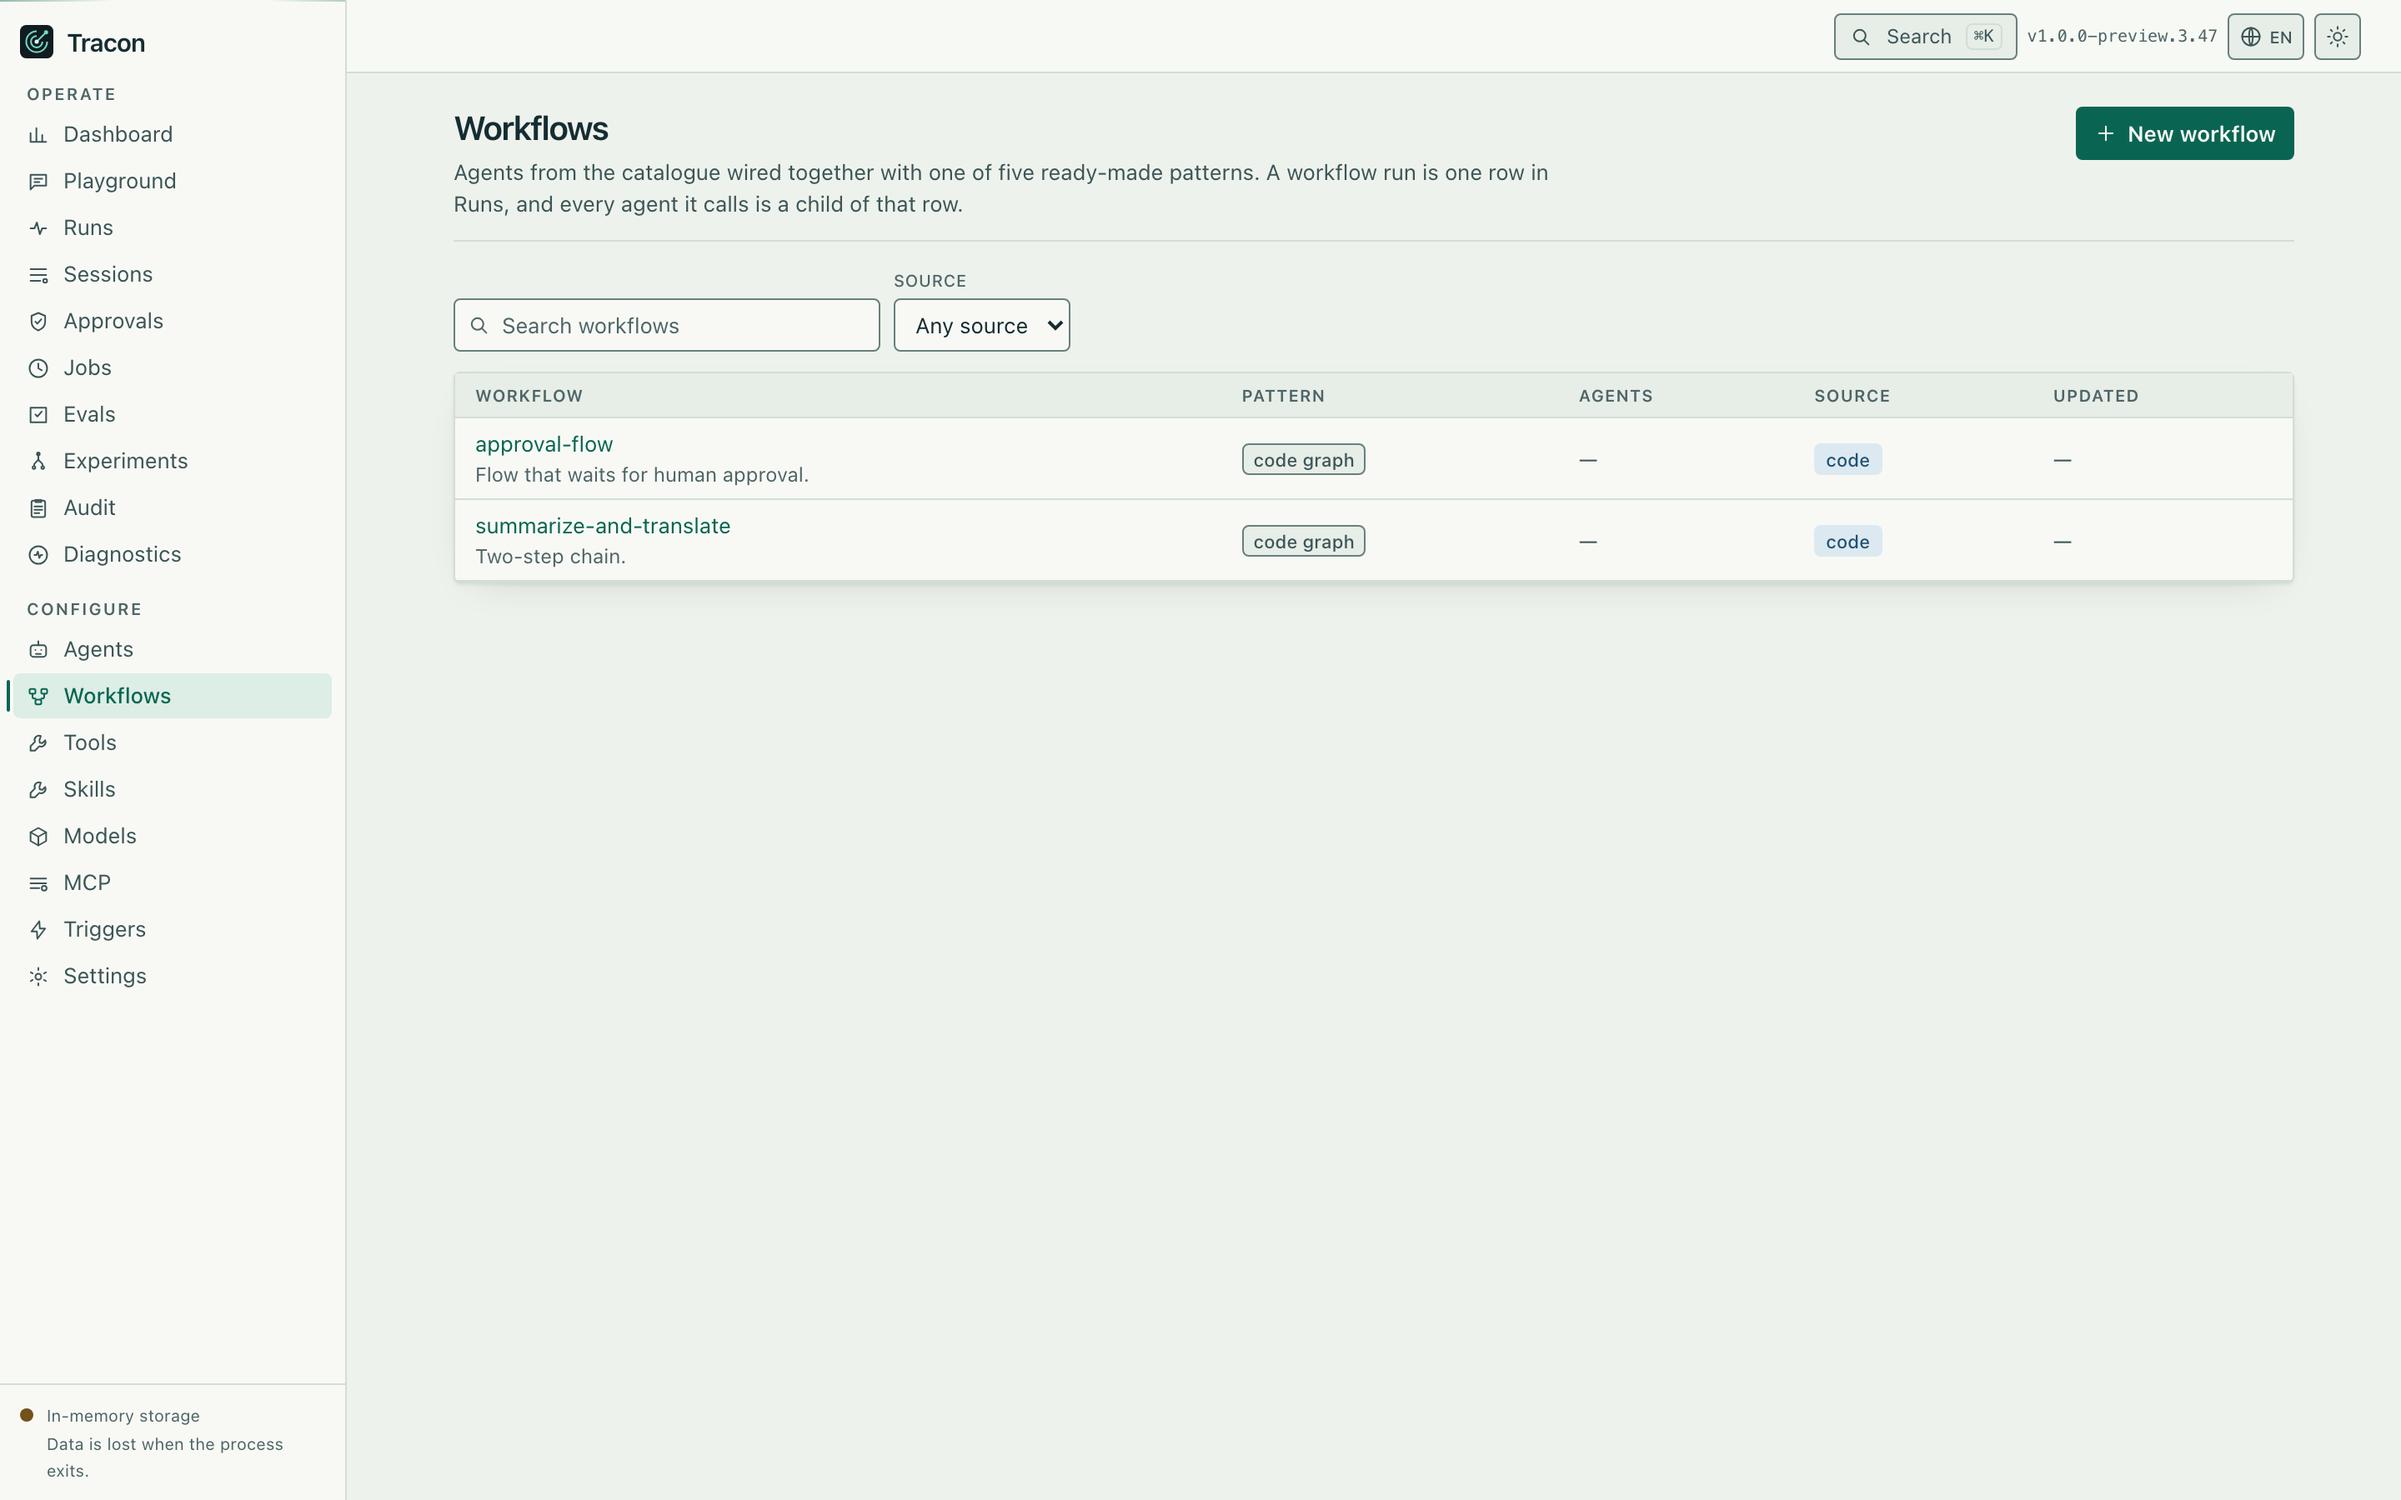
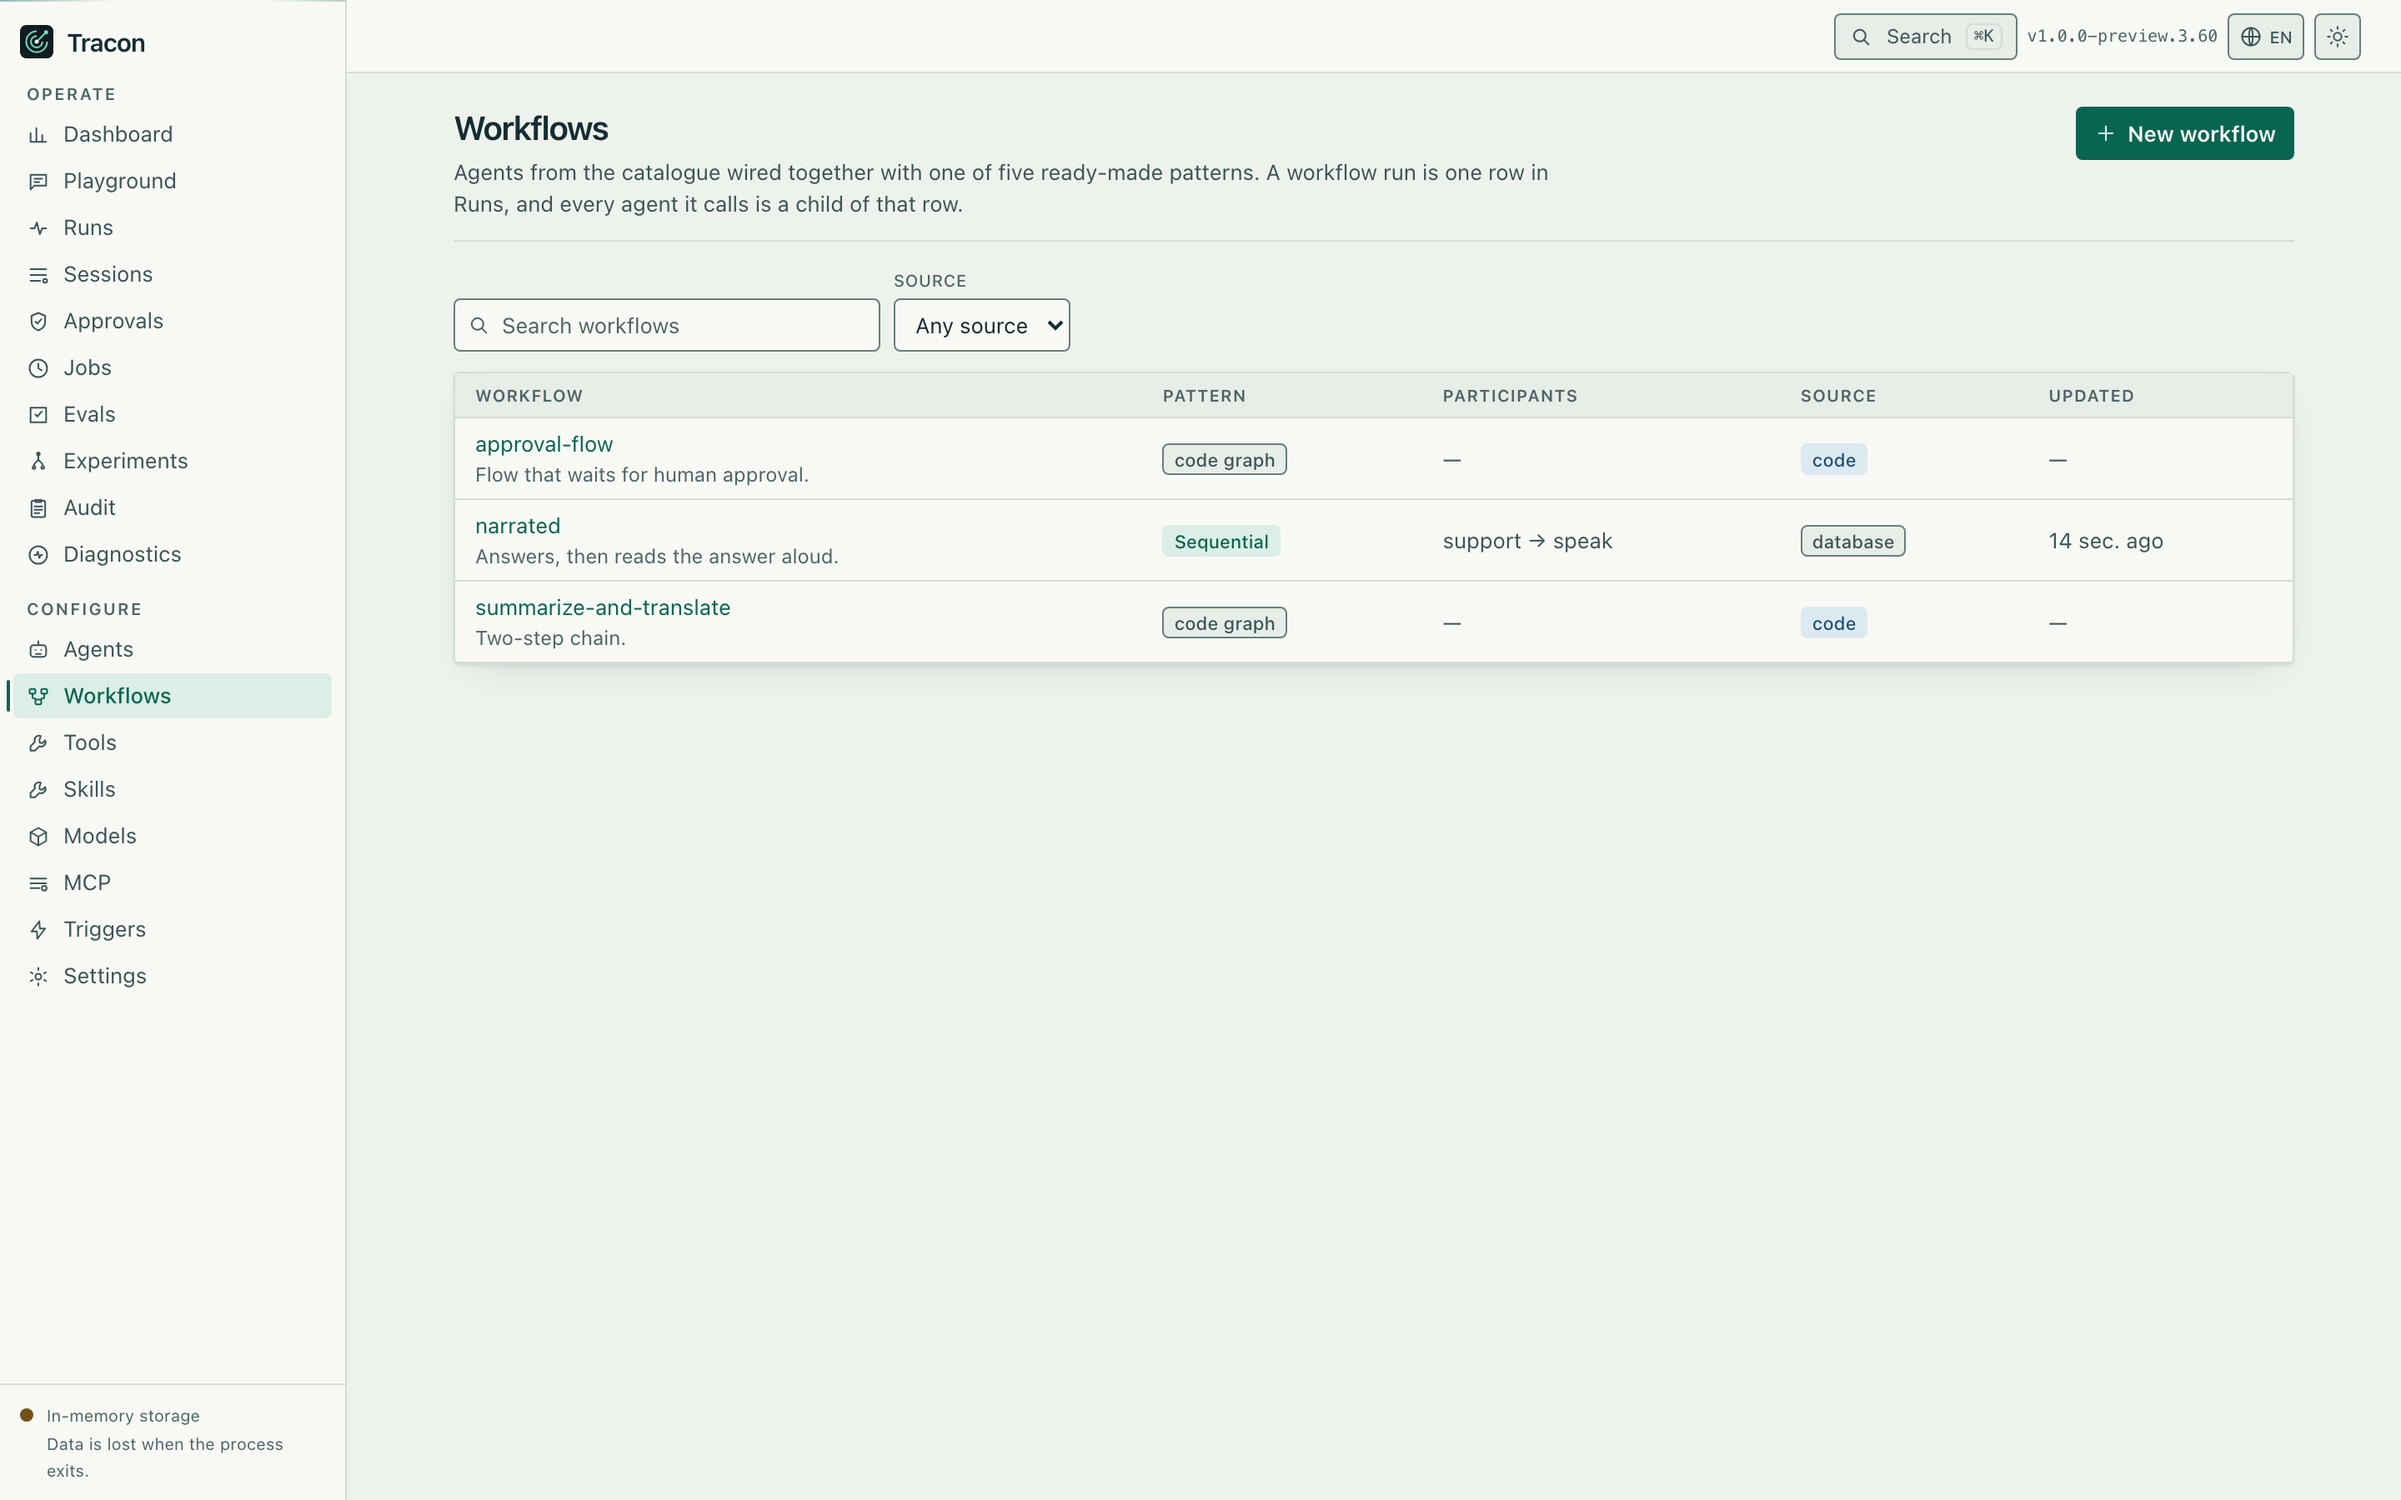
fix(console): keep a node's stored settings when a failed save is retried, and list node steps

diff --git a/src/Tracon.UI/frontend/src/screens/workflows.test.tsx b/src/Tracon.UI/frontend/src/screens/workflows.test.tsx
@@ -1,0 +1,70 @@
+import { afterEach, describe, expect, it } from 'vitest';
+import { fixture, installApiMock, testMeta } from '../test/api-fixtures';
+import { renderScreen, screen, within } from '../test/render';
+import { WorkflowsScreen } from './workflows';
+
+const stamp = '2026-10-12T09:00:00Z';
+
+/** What the server answers for a stored workflow; the case supplies the name and the steps. */
+function stored(name: string, steps: Record<string, unknown>): Record<string, unknown> {
+  return {
+    name,
+    displayName: null,
+    description: null,
+    origin: 'Database',
+    kind: 'Sequential',
+    agentNames: [],
+    nodes: [],
+    parameters: [],
+    version: 1,
+    updatedAt: stamp,
+    ...steps,
+  };
+}
+
+let restoreFetch: () => void = () => undefined;
+
+afterEach(() => {
+  restoreFetch();
+});
+
+/** The row of the workflow with this name. */
+async function rowOf(name: string): Promise<HTMLElement> {
+  return (await screen.findByRole('link', { name })).closest('tr') as HTMLElement;
+}
+
+describe('WorkflowsScreen - the participants column', () => {
+  // The console writes a chain that holds a function as `nodes` and leaves `agentNames` empty, so a
+  // column that read only `agentNames` showed the chain the operator had just built as empty.
+  it('lists the steps of a chain saved as nodes, of one saved as agent names, and nothing for a code graph', async () => {
+    restoreFetch = installApiMock([
+      fixture('GET', 'api/workflows', [
+        stored('narrated', {
+          nodes: [
+            { name: 'support', kind: 'Agent', settings: null },
+            { name: 'speak', kind: 'Function', settings: { voice: 'alloy' } },
+          ],
+        }),
+        stored('review', { agentNames: ['drafter', 'reviewer'] }),
+        stored('approval-flow', { origin: 'Code', kind: null }),
+      ]),
+    ]);
+
+    renderScreen(<WorkflowsScreen meta={testMeta} />);
+
+    expect(within(await rowOf('narrated')).getByText('support → speak')).toBeTruthy();
+    expect(within(await rowOf('review')).getByText('drafter → reviewer')).toBeTruthy();
+    expect(within(await rowOf('approval-flow')).getByText('—', { selector: 'td' })).toBeTruthy();
+  });
+
+  it('names the column for what it holds: the steps, which are not always agents', async () => {
+    restoreFetch = installApiMock([fixture('GET', 'api/workflows', [stored('review', { agentNames: ['drafter'] })])]);
+
+    renderScreen(<WorkflowsScreen meta={testMeta} />);
+
+    await rowOf('review');
+
+    expect(screen.getByRole('columnheader', { name: 'Participants' })).toBeTruthy();
+    expect(screen.queryByRole('columnheader', { name: 'Agents' })).toBeNull();
+  });
+});

diff --git a/src/Tracon.UI/frontend/src/screens/workflow-editor.test.tsx b/src/Tracon.UI/frontend/src/screens/workflow-editor.test.tsx
@@ -320,6 +320,56 @@ describe('WorkflowEditorScreen - the settings field', () => {
     expect(screen.queryByText('This is not valid JSON.')).toBeNull();
   });
 
+  // Retry is Save again. After a failed save it used to send the draft whatever the settings text
+  // held, and text that is not JSON became `null` - which a full-replace save takes for "no
+  // settings", so the stored ones were erased.
+  it('holds Retry back, like Save, while the settings text is not JSON, and sends nothing then', async () => {
+    const user = userEvent.setup();
+    let answers = 0;
+
+    open(mixed, [
+      {
+        method: 'PUT',
+        pattern: 'api/workflows/:name',
+        handler: (_params, _url, body) => {
+          sent.push(body);
+          answers += 1;
+
+          return answers === 1
+            ? new Response(
+                JSON.stringify({ title: 'Workflow definition invalid', detail: "Function node 'word-count' has invalid settings." }),
+                { status: 400, headers: { 'Content-Type': 'application/problem+json' } },
+              )
+            : stored({});
+        },
+      },
+    ]);
+
+    const field = await screen.findByTestId('workflow-settings-word-count');
+
+    fireEvent.change(field, { target: { value: '{"langauge":"en"}' } });
+    await user.click(await screen.findByTestId('workflow-save'));
+
+    // The server refused it: its message shows, with Retry.
+    await screen.findByText(/Function node 'word-count' has invalid settings\./);
+    await screen.findByTestId('error-retry');
+    expect(sent).toHaveLength(1);
+
+    // The text stops being JSON: Save is held back, and so is Retry.
+    fireEvent.change(field, { target: { value: '{ "language": ' } });
+
+    expect(screen.getByTestId('workflow-save')).toHaveProperty('disabled', true);
+    expect(screen.queryByTestId('error-retry')).toBeNull();
+    expect(sent).toHaveLength(1);
+
+    // JSON again: Retry is back, and what it sends is the settings as typed - never null.
+    fireEvent.change(field, { target: { value: '{"language":"en"}' } });
+    await user.click(await screen.findByTestId('error-retry'));
+    await waitFor(() => expect(sent).toHaveLength(2));
+
+    expect(sent[1]).toMatchObject({ nodes: [expect.anything(), { name: 'word-count', settings: { language: 'en' } }] });
+  });
+
   it('leaves the verdict on valid JSON to the server: an object the type cannot hold is sent as typed', async () => {
     const user = userEvent.setup();
 

diff --git a/src/Tracon.UI/frontend/src/screens/workflows.tsx b/src/Tracon.UI/frontend/src/screens/workflows.tsx
@@ -18,6 +18,7 @@ import {
   Th,
 } from '../components/ui';
 import { Link } from '../lib/router';
+import { stepsOf } from '../lib/workflow-steps';
 import { Toolbar, ToolbarField } from '../components/toolbar';
 import { PlusIcon } from '../components/icons';
 import type { TraconMetaResponse as Meta } from '@tracon/client';
@@ -119,7 +120,7 @@ export function WorkflowsScreen({ meta }: { meta: Meta }): ReactNode {
               <tr>
                 <Th>{t('workflows.column.workflow')}</Th>
                 <Th>{t('workflows.column.pattern')}</Th>
-                <Th>{t('nav.agents')}</Th>
+                <Th>{t('workflows.column.participants')}</Th>
                 <Th>{t('common.source')}</Th>
                 <Th>{t('common.updated')}</Th>
               </tr>
@@ -146,9 +147,7 @@ export function WorkflowsScreen({ meta }: { meta: Meta }): ReactNode {
                       </Badge>
                     )}
                   </Td>
-                  <Td className="text-muted">
-                    {workflow.agentNames.length === 0 ? '—' : workflow.agentNames.join(' → ')}
-                  </Td>
+                  <Td className="text-muted">{participantsOf(workflow)}</Td>
                   <Td>
                     {/* A code-defined workflow cannot be edited here: it ships with the
                         deployment and wins over any stored definition of the same name. */}
@@ -178,6 +177,17 @@ export function WorkflowsScreen({ meta }: { meta: Meta }): ReactNode {
       )}
     </>
   );
+}
+
+/**
+ * The steps of a stored workflow in the order they are listed, from whichever form it was
+ * saved in: the console writes a chain that holds a function as `nodes`, and a definition
+ * saved over HTTP can use either.
+ */
+function participantsOf(workflow: WorkflowDescriptor): string {
+  const names = stepsOf(workflow).map((step) => step.name);
+
+  return names.length === 0 ? '—' : names.join(' → ');
 }
 
 /**

diff --git a/src/Tracon.UI/frontend/src/lib/workflow-steps.ts b/src/Tracon.UI/frontend/src/lib/workflow-steps.ts
@@ -83,11 +83,22 @@ export function chainBody(
   };
 }
 
-/** The settings as the request carries them: parsed JSON, or `null` for none. */
+/**
+ * The settings as the request carries them: parsed JSON, or `null` for none.
+ *
+ * 🚨 Text that is not JSON is neither: a full-replace save (K-725) would take `null` for "no
+ * settings" and erase what the node stores. The screen holds Save and Retry back while
+ * `hasInvalidSettings` is true; this is the last line, so no future caller can turn a typing
+ * slip into a silent deletion.
+ */
 function settingsValue(text: string): unknown {
   const parsed = parseSettings(text);
 
-  return parsed.ok ? parsed.value : null;
+  if (!parsed.ok) {
+    throw new Error('A function step holds settings that are not valid JSON, so no request was built.');
+  }
+
+  return parsed.value;
 }
 
 export type SettingsParse = { ok: true; value: unknown } | { ok: false };

diff --git a/src/Tracon.UI/frontend/src/lib/workflow-steps.test.ts b/src/Tracon.UI/frontend/src/lib/workflow-steps.test.ts
@@ -79,6 +79,10 @@ describe('chainBody', () => {
     expect(chainBody('Magentic', [agent('a'), agent('b')])).toEqual({ agentNames: ['a', 'b'], nodes: [] });
   });
 
+  it('builds no request from settings text that is not JSON: null would stand for "no settings" and erase them', () => {
+    expect(() => chainBody('Sequential', [agent('a'), fn('tts', '{ nope')])).toThrow('not valid JSON');
+  });
+
   it('keeps every JSON kind a settings object can hold', () => {
     const text = '{"n":3,"f":-12.5,"b":true,"s":"x","a":[1,"2"],"o":{"k":null},"z":null}';
     const body = chainBody('Sequential', [fn('tts', text)]);

diff --git a/src/Tracon.UI/frontend/src/screens/workflow-editor.tsx b/src/Tracon.UI/frontend/src/screens/workflow-editor.tsx
@@ -261,7 +261,9 @@ export function WorkflowEditorScreen({ name }: { name?: string }): ReactNode {
 
       {save.isError && (
         <div className="mb-3">
-          <ErrorNote error={save.error} onRetry={() => save.mutate()} />
+          {/* Retry is Save again, so it holds back whenever Save does: it used to send a draft
+              whose settings text had stopped being JSON (full replace would have cleared them). */}
+          <ErrorNote error={save.error} onRetry={blocked ? undefined : () => save.mutate()} />
         </div>
       )}
 

diff --git a/src/Tracon.UI/frontend/src/locales/tr/workflows.ts b/src/Tracon.UI/frontend/src/locales/tr/workflows.ts
@@ -20,6 +20,7 @@ export const trWorkflows: Pick<Messages, keyof typeof enWorkflows> = {
   "workflows.empty.body": "Bir workflow, elinizdeki agent'ları birbirine bağlar. Burada tanımlayın veya kodda şununla kaydedin:",
   "workflows.column.workflow": 'Workflow',
   "workflows.column.pattern": 'Desen',
+  "workflows.column.participants": 'Katılımcılar',
   "workflows.codeGraph": 'kod grafiği',
   "workflows.codeGraphTitle": 'Kodda bir fabrika tarafından kuruldu; grafiğine bakın.',
   "workflows.originCode": 'kod',

diff --git a/src/Tracon.UI/frontend/src/locales/en/workflows.ts b/src/Tracon.UI/frontend/src/locales/en/workflows.ts
@@ -15,6 +15,7 @@ export const enWorkflows = {
   "workflows.empty.body": 'A workflow connects agents you already have. Define one here, or register one in code with',
   "workflows.column.workflow": 'Workflow',
   "workflows.column.pattern": 'Pattern',
+  "workflows.column.participants": 'Participants',
   "workflows.codeGraph": 'code graph',
   "workflows.codeGraphTitle": 'Built by a factory in code; see its graph.',
   "workflows.originCode": 'code',
